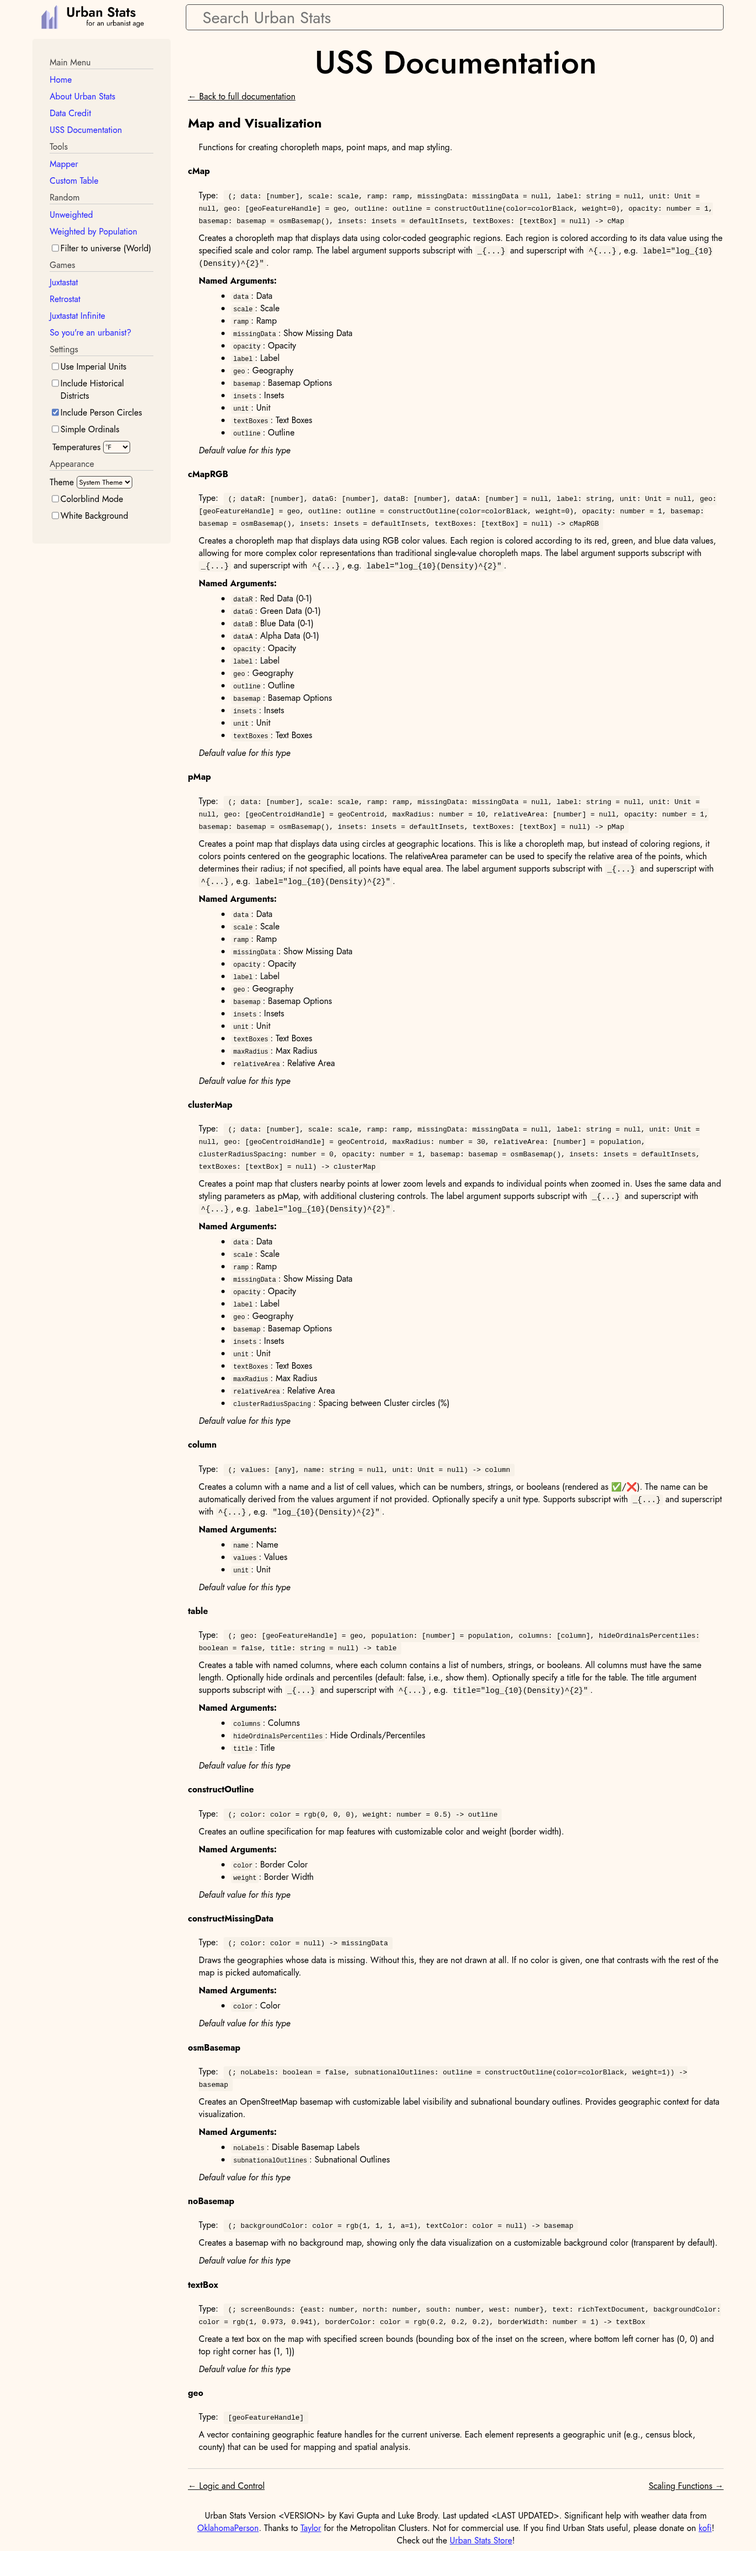
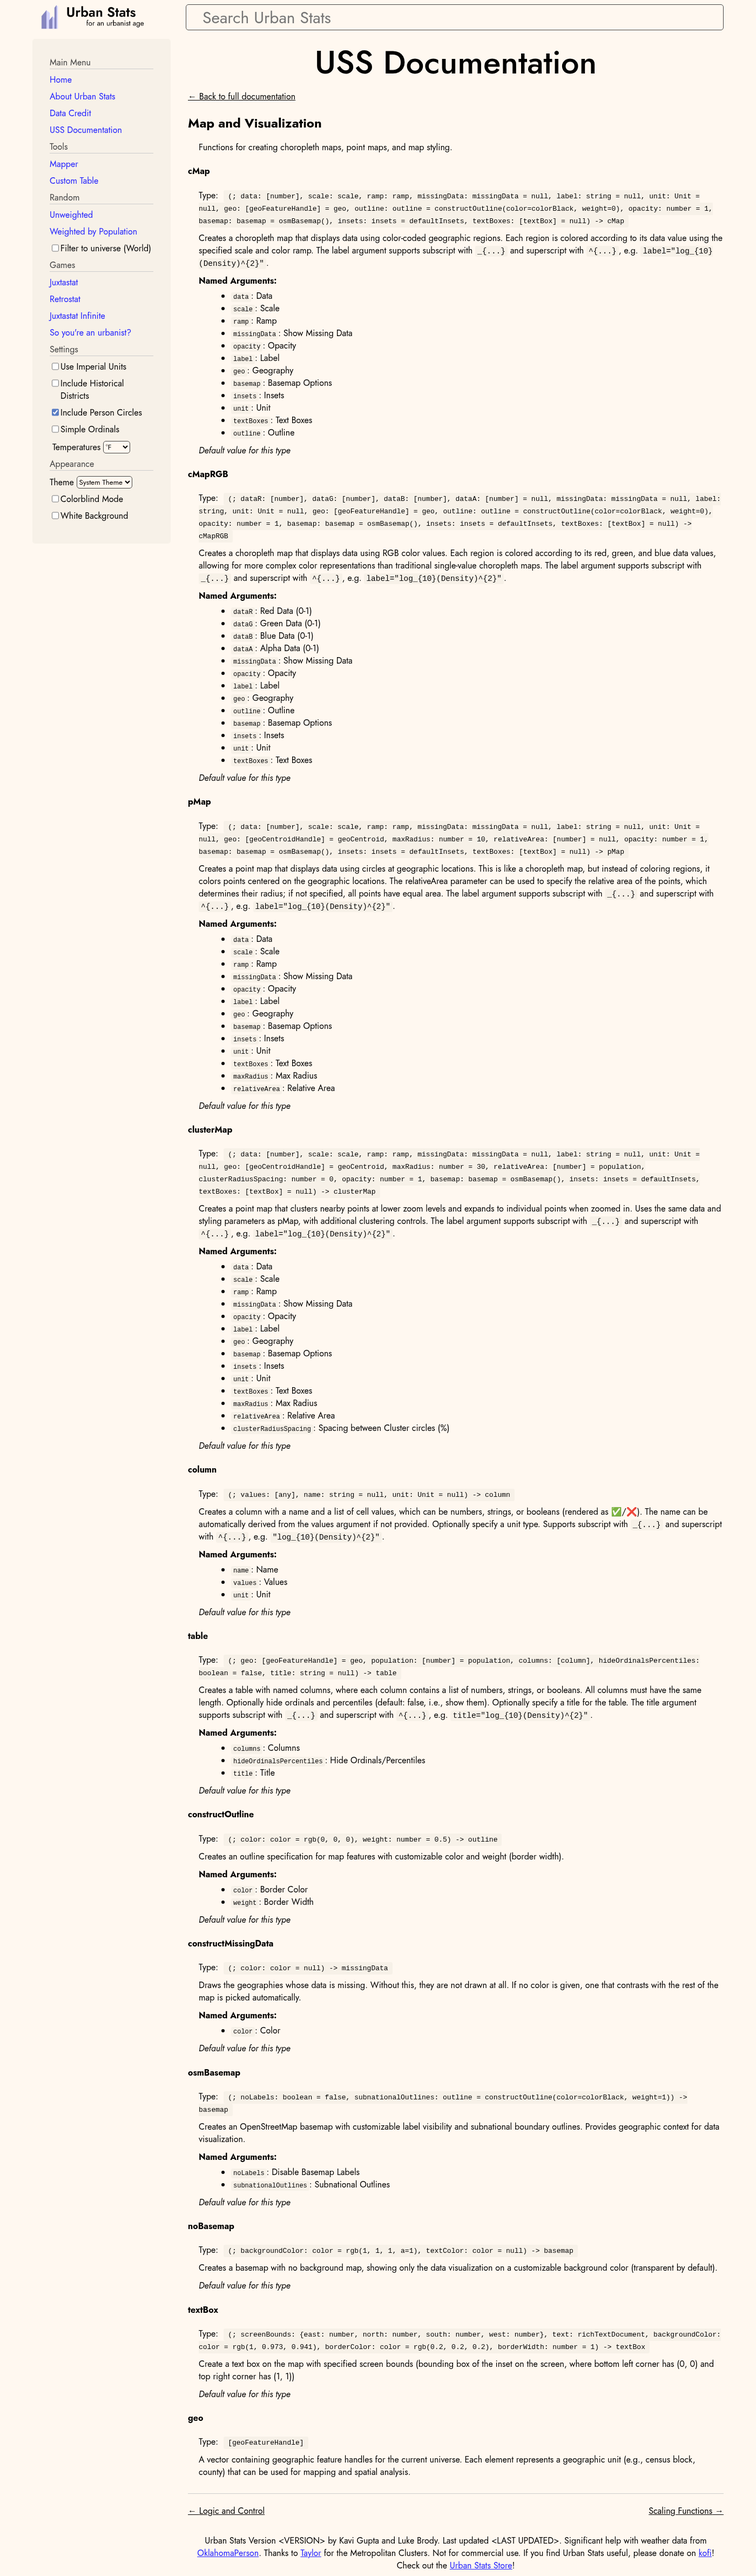
Give an RGB map the same missing-data handling (#2424)
Closes #2422. Stacked on #2423, which introduces `missingData`; review
that first.

Shown missing values default to magenta on an RGB map rather than to the
furthest colour `cMap` derives. An RGB map has no ramp to be furthest
from, and deriving one from the thousands of colours the data itself
produces would cost more per render than an opt-in, rare case is worth.
Magenta is the conventional no-data colour and
`constructMissingData(color=)` overrides it, so the asymmetry with
`cMap` costs a reader one sentence.

The `missingData` argument moves up into the shared block in
`mapConstructorArguments` so that `cMapRGB` picks it up. The order the
non-RGB constructors present their arguments in is unchanged, which the
reference screenshots confirm — only the two new RGB ones differ.

🤖 Generated with [Claude Code](https://claude.com/claude-code)

---------

diff --git a/react/src/mapper/map-rendering.ts b/react/src/mapper/map-rendering.ts
@@ -8,6 +8,7 @@ import { indexLink } from '../navigation/links'
 import { loadCentroids } from '../syau/load'
 import { Universe } from '../universe'
 import { doRender } from '../urban-stats-script/constants/color-utils'
+import { MissingData } from '../urban-stats-script/constants/map'
 import { instantiate, ScaleInstance } from '../urban-stats-script/constants/scale'
 import { USSOpaqueValue } from '../urban-stats-script/types-values'
 import { furthestColor, interpolateColor } from '../utils/color'
@@ -40,6 +41,10 @@ function rampTicks(scale: ScaleInstance): number[] {
 /** What a map with no colour of its own paints a missing value: nothing, so the basemap shows through. */
 // eslint-disable-next-line no-restricted-syntax -- not a theme colour; it is the absence of one
 const hiddenColor = '#00000000'
+
+/** An RGB map has no ramp to be furthest from, so a shown missing value gets a fixed colour. */
+// eslint-disable-next-line no-restricted-syntax -- the conventional no-data magenta
+const rgbMissingColor = '#ff00ff'
 
 /**
  * Returns a function rather than colouring a list, so the ramp's expensive contrast colour is
@@ -84,18 +89,29 @@ export interface MapVisuals {
     categoryColors?: string[]
 }
 
+/** What a missing value is painted: nothing unless drawn, then its own colour or `automatic`. */
+function missingFill<T extends string | undefined>(missingData: MissingData | undefined, automatic: T): string | T {
+    if (missingData === undefined) {
+        return hiddenColor
+    }
+    return missingData.color === undefined ? automatic : doRender(missingData.color)
+}
+
 export function mapVisuals(result: MapResult): MapVisuals {
     if (result.opaqueType === 'cMapRGB') {
         const rgb = result.value
-        return { colors: rgb.dataR.map((r, i) => doRender({ r, g: rgb.dataG[i], b: rgb.dataB[i], a: rgb.dataA[i] })) }
+        const missing = missingFill(rgb.missingData, rgbMissingColor)
+        return {
+            colors: rgb.dataR.map((r, i) => {
+                const [g, b, a] = [rgb.dataG[i], rgb.dataB[i], rgb.dataA[i]]
+                return isNaN(r) || isNaN(g) || isNaN(b) || isNaN(a) ? missing : doRender({ r, g, b, a })
+            }),
+        }
     }
     const map = result.value
     const scale = instantiate(map.scale)
     const ticks = rampTicks(scale)
-    const missing = map.missingData === undefined
-        ? hiddenColor
-        : (map.missingData.color === undefined ? undefined : doRender(map.missingData.color))
-    const colorer = rampColorer(map.ramp, scale, missing)
+    const colorer = rampColorer(map.ramp, scale, missingFill(map.missingData, undefined))
     const ramp = { scale, ticks, colors: ticks.map(colorer) }
     if (result.opaqueType === 'clusterMap') {
         // Discretized so a cluster's slices are counted in the same bins the colourbar shows.

diff --git a/react/src/urban-stats-script/constants/map.ts b/react/src/urban-stats-script/constants/map.ts
@@ -62,6 +62,7 @@ export interface CMapRGB {
     unit?: UnitType
     outline: Outline
     textBoxes: TextBox[]
+    missingData: MissingData | undefined
 }
 
 export interface PMap extends CommonMap {
@@ -168,13 +169,13 @@ function mapConstructorArguments(
                 data: dataType,
                 scale: { type: { type: 'concrete', value: { type: 'opaque', name: 'scale' } } },
                 ramp: { type: { type: 'concrete', value: { type: 'opaque', name: 'ramp' } } },
-                missingData: {
-                    type: { type: 'concrete', value: missingDataType },
-                    defaultValue: createConstantExpression(null),
-                },
             }
     return {
         ...dataArgs,
+        missingData: {
+            type: { type: 'concrete', value: missingDataType },
+            defaultValue: createConstantExpression(null),
+        },
         label: {
             type: { type: 'concrete', value: { type: 'string' } },
             defaultValue: isRGB ? undefined : createConstantExpression(null),
@@ -463,6 +464,7 @@ export const cMapRGB: USSValue = {
         const unit = unitArg ? (unitArg.value.unit as UnitType) : undefined
         const textBoxes = (namedArgs.textBoxes as { value: TextBox }[] | null ?? []).map(({ value }) => value)
         const opacity = Math.max(0, Math.min(1, namedArgs.opacity as number))
+        const missingData = (namedArgs.missingData as { type: 'opaque', opaqueType: 'missingData', value: MissingData } | null)?.value
 
         const dataARaw = namedArgs.dataA as number[] | null
         const dataA: number[] = dataARaw === null
@@ -478,7 +480,7 @@ export const cMapRGB: USSValue = {
         return {
             type: 'opaque',
             opaqueType: 'cMapRGB',
-            value: { geo, dataR, dataG, dataB, dataA, opacity, label, basemap, insets, unit, outline, textBoxes } satisfies CMapRGB,
+            value: { geo, dataR, dataG, dataB, dataA, opacity, label, basemap, insets, unit, outline, textBoxes, missingData } satisfies CMapRGB,
         }
     },
     documentation: {
@@ -490,6 +492,7 @@ export const cMapRGB: USSValue = {
             dataG: 'Green Data (0-1)',
             dataB: 'Blue Data (0-1)',
             dataA: 'Alpha Data (0-1)',
+            missingData: 'Show Missing Data',
             opacity: 'Opacity',
             label: 'Label',
             geo: 'Geography',

diff --git a/react/test/mapper-missing-data.test.ts b/react/test/mapper-missing-data.test.ts
@@ -66,3 +66,37 @@ mapper(() => test)('missing values on a cluster map', { code: clusterCode, geo: 
     await t.expect(getErrors()).eql([])
     await screencap(t, { removeEntireMap: false, scrollPaneTo: checkSelector(/^Show Missing Data/) })
 })
+
+// The same four regions on an RGB map, whose NaN channels used to render as the literal
+// string #NaNNaNNaN.
+const rgbCode = `customNode("");
+condition (true)
+cMapRGB(
+    dataR=if (population > (median(population))) { density_pw_1km / 3000 },
+    dataG=density_pw_1km / 3000,
+    dataB=1 - density_pw_1km / 3000,
+    label="RGB",
+    outline=constructOutline(weight=2),
+    basemap=noBasemap()
+)`
+
+mapper(() => test)('missing values on an RGB map', { code: rgbCode, geo: 'Subnational Region', universe: 'Iceland' }, async (t) => {
+    await t.expect(getErrors()).eql([])
+    await screencap(t, { removeEntireMap: false })
+
+    await checkBox(t, /^Show Missing Data/)
+    await t.expect(getErrors()).eql([])
+    await screencap(t, { removeEntireMap: false })
+
+    await checkBox(t, /^Color/)
+    await t.expect(getErrors()).eql([])
+    await screencap(t, { removeEntireMap: false, scrollPaneTo: checkSelector(/^Show Missing Data/) })
+})
+
+mapper(() => test)('a hidden region on an RGB map is still clickable', { code: rgbCode, geo: 'Subnational Region', universe: 'Iceland' }, async (t) => {
+    await waitForMapsToRender()
+    const canvas = Selector(`${map(0)} canvas`)
+    const { width, height } = await canvas.boundingClientRect
+    await t.click(canvas, { offsetX: Math.round(width * 0.82), offsetY: Math.round(height * 0.57) })
+    await t.expect(getLocation()).contains('longname=Austurland%2C+Iceland')
+})

diff --git a/react/unit/urban-stats-script-constants.test.ts b/react/unit/urban-stats-script-constants.test.ts
@@ -591,7 +591,7 @@ void test('constant listing', (): void => {
             '(; data: [number], scale: scale, ramp: ramp, missingData: missingData = null, label: string = null, unit: Unit = null, geo: [geoFeatureHandle] = geo, outline: outline = constructOutline(color=colorBlack, weight=0), opacity: number = 1, basemap: basemap = osmBasemap(), insets: insets = defaultInsets, textBoxes: [textBox] = null) -> cMap': [
                 'cMap',
             ],
-            '(; dataR: [number], dataG: [number], dataB: [number], dataA: [number] = null, label: string, unit: Unit = null, geo: [geoFeatureHandle] = geo, outline: outline = constructOutline(color=colorBlack, weight=0), opacity: number = 1, basemap: basemap = osmBasemap(), insets: insets = defaultInsets, textBoxes: [textBox] = null) -> cMapRGB': [
+            '(; dataR: [number], dataG: [number], dataB: [number], dataA: [number] = null, missingData: missingData = null, label: string, unit: Unit = null, geo: [geoFeatureHandle] = geo, outline: outline = constructOutline(color=colorBlack, weight=0), opacity: number = 1, basemap: basemap = osmBasemap(), insets: insets = defaultInsets, textBoxes: [textBox] = null) -> cMapRGB': [
                 'cMapRGB',
             ],
             '(; data: [number], scale: scale, ramp: ramp, missingData: missingData = null, label: string = null, unit: Unit = null, geo: [geoCentroidHandle] = geoCentroid, maxRadius: number = 10, relativeArea: [number] = null, opacity: number = 1, basemap: basemap = osmBasemap(), insets: insets = defaultInsets, textBoxes: [textBox] = null) -> pMap': [
